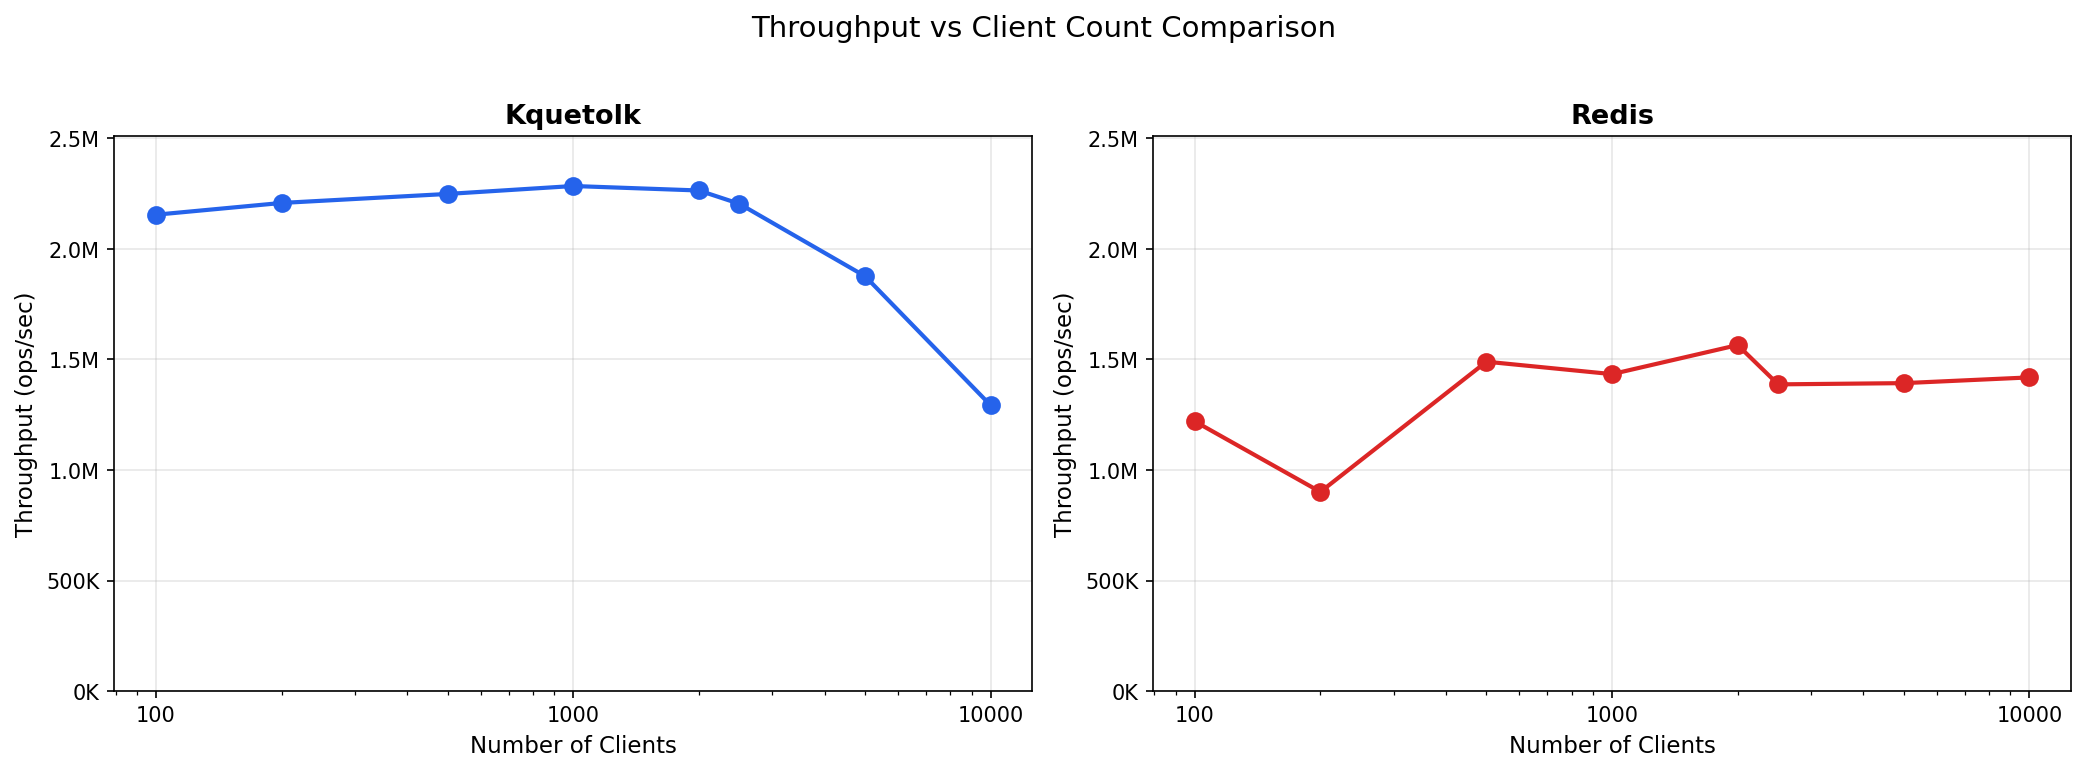
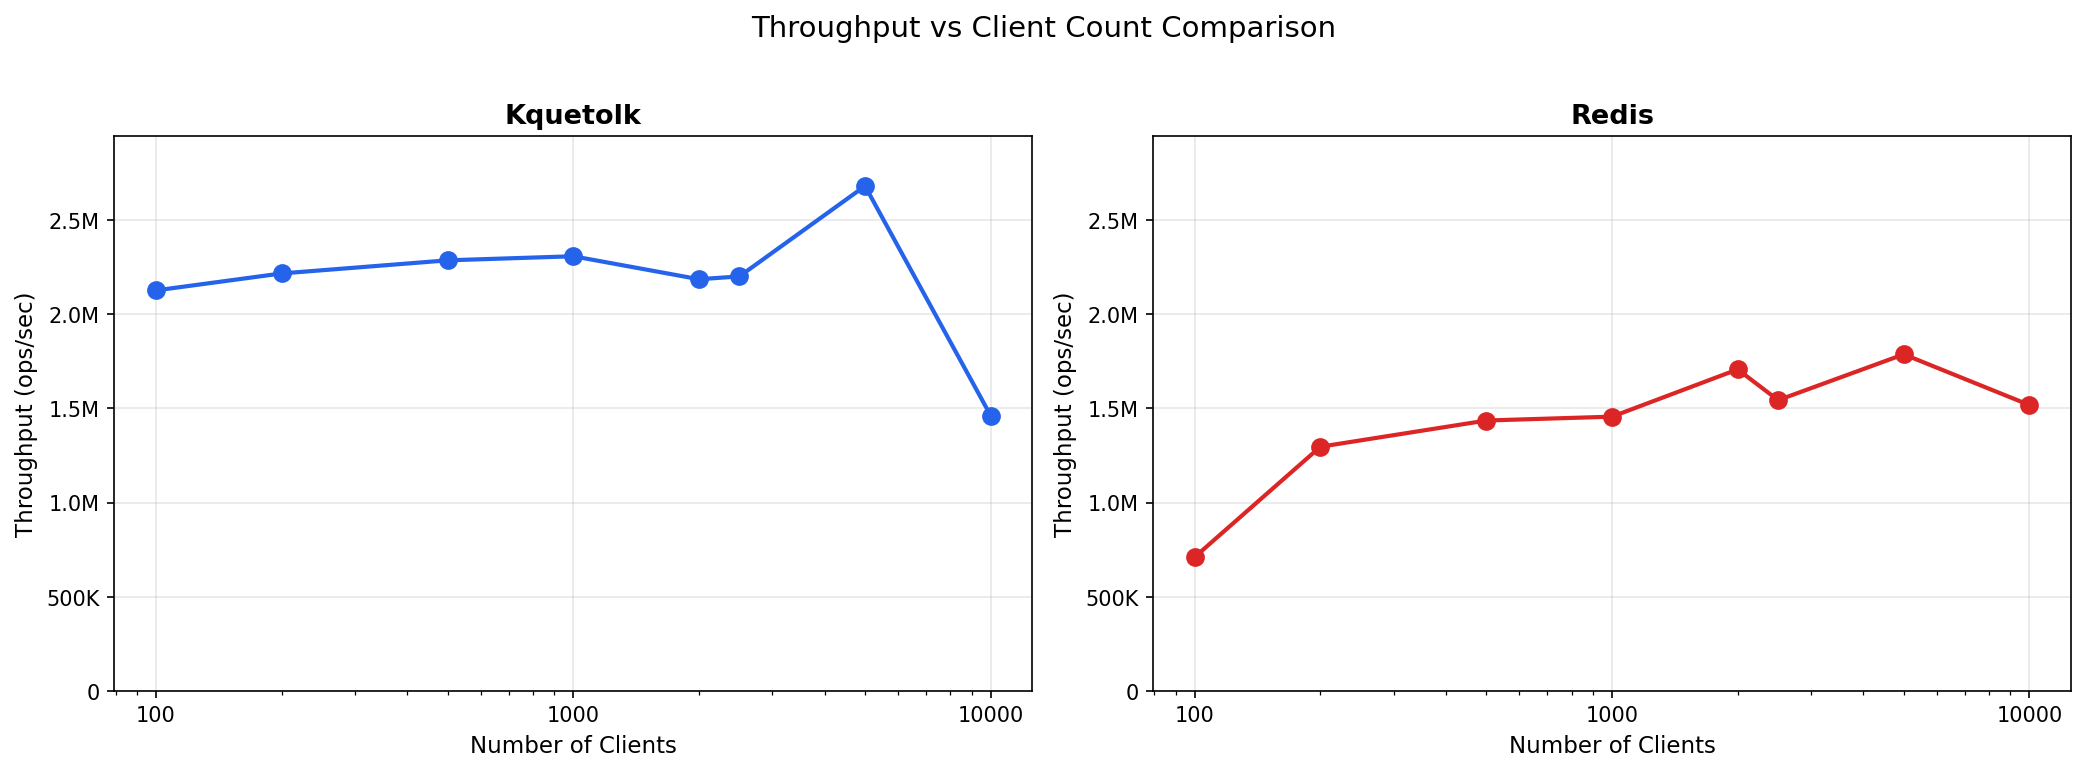
upd: updated benchmarks

diff --git a/benchmark/plot_benchmark.py b/benchmark/plot_benchmark.py
@@ -1,11 +1,16 @@
 #!/usr/bin/env python3
 """
-Plot benchmark results: Throughput vs Client Count
+Plot benchmark results with comprehensive visualizations.
 
 Usage:
     python3 plot_benchmark.py kquetolk_results.csv [redis_results.csv]
 
-This generates a graph similar to typical Redis benchmark comparisons.
+Generates:
+    1. Throughput vs Clients (side-by-side comparison)
+    2. Throughput overlay (both on same graph)
+    3. P99 Latency vs Clients (critical for SLA evaluation)
+    4. Latency percentile breakdown (p50 vs p99 vs p99.9)
+    5. Throughput vs Latency tradeoff curve
 """
 
 import sys
@@ -15,111 +20,245 @@ import matplotlib.ticker as ticker
 
 
 def read_csv(filename):
-    """Read benchmark CSV and return data."""
-    clients = []
-    ops_sec = []
+    """Read benchmark CSV and return data dict."""
+    data = {
+        'clients': [],
+        'ops_sec': [],
+        'avg_latency': [],
+        'p50_latency': [],
+        'p99_latency': [],
+        'p999_latency': []
+    }
 
     with open(filename, 'r') as f:
         reader = csv.DictReader(f)
         for row in reader:
-            clients.append(int(row['client_count']))
-            ops_sec.append(float(row['ops_sec']))
+            data['clients'].append(int(row['client_count']))
+            data['ops_sec'].append(float(row['ops_sec']))
+            data['avg_latency'].append(float(row.get('avg_latency_ms', 0)))
+            # Handle both old format (only p99) and new format (p50, p99, p99.9)
+            data['p50_latency'].append(float(row.get('p50_latency_ms', row.get('avg_latency_ms', 0))))
+            data['p99_latency'].append(float(row.get('p99_latency_ms', 0)))
+            data['p999_latency'].append(float(row.get('p999_latency_ms', row.get('p99_latency_ms', 0))))
 
-    return clients, ops_sec
-
-
-def plot_single(kquetolk_file, output_file='throughput_graph.png'):
-    """Plot single server results."""
-    clients, ops = read_csv(kquetolk_file)
-
-    fig, ax = plt.subplots(figsize=(10, 6))
-
-    ax.plot(clients, ops, 'o-', linewidth=2, markersize=8,
-            color='#2563eb', label='Kquetolk')
-
-    ax.set_xlabel('Number of Clients', fontsize=12)
-    ax.set_ylabel('Throughput (ops/sec)', fontsize=12)
-    ax.set_title('Kquetolk: Throughput vs Client Count', fontsize=14)
-
-    ax.set_xscale('log')
-    ax.xaxis.set_major_formatter(ticker.ScalarFormatter())
-    ax.yaxis.set_major_formatter(ticker.FuncFormatter(lambda x, p: f'{x/1e6:.1f}M' if x >= 1e6 else f'{x/1e3:.0f}K'))
-
-    ax.grid(True, alpha=0.3)
-    ax.legend(loc='best')
-
-    plt.tight_layout()
-    plt.savefig(output_file, dpi=150)
-    print(f"Graph saved to {output_file}")
-    plt.show()
+    return data
 
 
-def plot_comparison(kquetolk_file, redis_file, output_file='throughput_comparison.png'):
-    """Plot comparison between Kquetolk and Redis."""
-    k_clients, k_ops = read_csv(kquetolk_file)
-    r_clients, r_ops = read_csv(redis_file)
+def format_ops(x, p):
+    """Format ops/sec for axis labels."""
+    if x >= 1e6:
+        return f'{x/1e6:.1f}M'
+    elif x >= 1e3:
+        return f'{x/1e3:.0f}K'
+    return f'{x:.0f}'
 
+
+def format_latency(x, p):
+    """Format latency for axis labels."""
+    if x >= 1000:
+        return f'{x/1000:.1f}s'
+    return f'{x:.0f}ms'
+
+
+def plot_throughput_comparison(k_data, r_data, output_file='throughput_comparison.png'):
+    """Plot side-by-side throughput comparison."""
     fig, (ax1, ax2) = plt.subplots(1, 2, figsize=(14, 5))
 
-    # Left plot: Kquetolk
-    ax1.plot(k_clients, k_ops, 'o-', linewidth=2, markersize=8, color='#2563eb')
+    # Kquetolk
+    ax1.plot(k_data['clients'], k_data['ops_sec'], 'o-', linewidth=2, markersize=8, color='#2563eb')
     ax1.set_xlabel('Number of Clients', fontsize=11)
     ax1.set_ylabel('Throughput (ops/sec)', fontsize=11)
     ax1.set_title('Kquetolk', fontsize=13, fontweight='bold')
     ax1.set_xscale('log')
     ax1.xaxis.set_major_formatter(ticker.ScalarFormatter())
-    ax1.yaxis.set_major_formatter(ticker.FuncFormatter(lambda x, p: f'{x/1e6:.1f}M' if x >= 1e6 else f'{x/1e3:.0f}K'))
+    ax1.yaxis.set_major_formatter(ticker.FuncFormatter(format_ops))
     ax1.grid(True, alpha=0.3)
 
-    # Right plot: Redis
-    ax2.plot(r_clients, r_ops, 'o-', linewidth=2, markersize=8, color='#dc2626')
+    # Redis
+    ax2.plot(r_data['clients'], r_data['ops_sec'], 'o-', linewidth=2, markersize=8, color='#dc2626')
     ax2.set_xlabel('Number of Clients', fontsize=11)
     ax2.set_ylabel('Throughput (ops/sec)', fontsize=11)
     ax2.set_title('Redis', fontsize=13, fontweight='bold')
     ax2.set_xscale('log')
     ax2.xaxis.set_major_formatter(ticker.ScalarFormatter())
-    ax2.yaxis.set_major_formatter(ticker.FuncFormatter(lambda x, p: f'{x/1e6:.1f}M' if x >= 1e6 else f'{x/1e3:.0f}K'))
+    ax2.yaxis.set_major_formatter(ticker.FuncFormatter(format_ops))
     ax2.grid(True, alpha=0.3)
 
-    # Match y-axis scales for fair comparison
-    max_ops = max(max(k_ops), max(r_ops)) * 1.1
+    # Match y-axis scales
+    max_ops = max(max(k_data['ops_sec']), max(r_data['ops_sec'])) * 1.1
     ax1.set_ylim(0, max_ops)
     ax2.set_ylim(0, max_ops)
 
     plt.suptitle('Throughput vs Client Count Comparison', fontsize=14, y=1.02)
     plt.tight_layout()
     plt.savefig(output_file, dpi=150, bbox_inches='tight')
-    print(f"Comparison graph saved to {output_file}")
-    plt.show()
+    print(f"Saved: {output_file}")
+    plt.close()
 
 
-def plot_overlay(kquetolk_file, redis_file, output_file='throughput_overlay.png'):
-    """Plot both servers on the same graph."""
-    k_clients, k_ops = read_csv(kquetolk_file)
-    r_clients, r_ops = read_csv(redis_file)
-
+def plot_throughput_overlay(k_data, r_data, output_file='throughput_overlay.png'):
+    """Plot both servers on the same throughput graph."""
     fig, ax = plt.subplots(figsize=(10, 6))
 
-    ax.plot(k_clients, k_ops, 'o-', linewidth=2, markersize=8,
+    ax.plot(k_data['clients'], k_data['ops_sec'], 'o-', linewidth=2, markersize=8,
             color='#2563eb', label='Kquetolk')
-    ax.plot(r_clients, r_ops, 's-', linewidth=2, markersize=8,
+    ax.plot(r_data['clients'], r_data['ops_sec'], 's-', linewidth=2, markersize=8,
             color='#dc2626', label='Redis')
 
     ax.set_xlabel('Number of Clients', fontsize=12)
     ax.set_ylabel('Throughput (ops/sec)', fontsize=12)
     ax.set_title('Throughput vs Client Count', fontsize=14)
-
     ax.set_xscale('log')
     ax.xaxis.set_major_formatter(ticker.ScalarFormatter())
-    ax.yaxis.set_major_formatter(ticker.FuncFormatter(lambda x, p: f'{x/1e6:.1f}M' if x >= 1e6 else f'{x/1e3:.0f}K'))
-
+    ax.yaxis.set_major_formatter(ticker.FuncFormatter(format_ops))
     ax.grid(True, alpha=0.3)
     ax.legend(loc='best', fontsize=11)
 
     plt.tight_layout()
     plt.savefig(output_file, dpi=150)
-    print(f"Overlay graph saved to {output_file}")
-    plt.show()
+    print(f"Saved: {output_file}")
+    plt.close()
+
+
+def plot_latency_comparison(k_data, r_data, output_file='latency_p99_comparison.png'):
+    """Plot P99 latency comparison - critical for SLA evaluation."""
+    fig, ax = plt.subplots(figsize=(10, 6))
+
+    ax.plot(k_data['clients'], k_data['p99_latency'], 'o-', linewidth=2, markersize=8,
+            color='#2563eb', label='Kquetolk P99')
+    ax.plot(r_data['clients'], r_data['p99_latency'], 's-', linewidth=2, markersize=8,
+            color='#dc2626', label='Redis P99')
+
+    ax.set_xlabel('Number of Clients', fontsize=12)
+    ax.set_ylabel('P99 Latency (ms)', fontsize=12)
+    ax.set_title('P99 Latency vs Client Count', fontsize=14)
+    ax.set_xscale('log')
+    ax.xaxis.set_major_formatter(ticker.ScalarFormatter())
+    ax.grid(True, alpha=0.3)
+    ax.legend(loc='best', fontsize=11)
+
+    # Add SLA reference line at 10ms (common Redis SLA target)
+    ax.axhline(y=10, color='green', linestyle='--', alpha=0.5, label='10ms SLA target')
+
+    plt.tight_layout()
+    plt.savefig(output_file, dpi=150)
+    print(f"Saved: {output_file}")
+    plt.close()
+
+
+def plot_latency_percentiles(data, name, color, output_file='latency_percentiles.png'):
+    """Plot latency percentile breakdown for a single server."""
+    fig, ax = plt.subplots(figsize=(10, 6))
+
+    ax.plot(data['clients'], data['p50_latency'], 'o-', linewidth=2, markersize=6,
+            color=color, alpha=0.5, label='P50 (median)')
+    ax.plot(data['clients'], data['p99_latency'], 's-', linewidth=2, markersize=6,
+            color=color, alpha=0.75, label='P99')
+    ax.plot(data['clients'], data['p999_latency'], '^-', linewidth=2, markersize=6,
+            color=color, label='P99.9 (tail)')
+
+    ax.set_xlabel('Number of Clients', fontsize=12)
+    ax.set_ylabel('Latency (ms)', fontsize=12)
+    ax.set_title(f'{name}: Latency Percentiles vs Client Count', fontsize=14)
+    ax.set_xscale('log')
+    ax.xaxis.set_major_formatter(ticker.ScalarFormatter())
+    ax.grid(True, alpha=0.3)
+    ax.legend(loc='upper left', fontsize=11)
+
+    plt.tight_layout()
+    plt.savefig(output_file, dpi=150)
+    print(f"Saved: {output_file}")
+    plt.close()
+
+
+def plot_throughput_latency_tradeoff(k_data, r_data, output_file='throughput_latency_tradeoff.png'):
+    """Plot throughput vs latency - the classic tradeoff curve.
+
+    This is one of the most important visualizations:
+    - X-axis: Throughput (what you get)
+    - Y-axis: P99 Latency (what you pay)
+    - Lower and to the right is better
+    """
+    fig, ax = plt.subplots(figsize=(10, 6))
+
+    # Plot with client count as annotation
+    ax.plot(k_data['ops_sec'], k_data['p99_latency'], 'o-', linewidth=2, markersize=10,
+            color='#2563eb', label='Kquetolk')
+    ax.plot(r_data['ops_sec'], r_data['p99_latency'], 's-', linewidth=2, markersize=10,
+            color='#dc2626', label='Redis')
+
+    # Annotate key points with client counts
+    for i, clients in enumerate(k_data['clients']):
+        if clients in [100, 1000, 10000]:
+            ax.annotate(f'{clients}c', (k_data['ops_sec'][i], k_data['p99_latency'][i]),
+                       textcoords="offset points", xytext=(5, 5), fontsize=8, color='#2563eb')
+    for i, clients in enumerate(r_data['clients']):
+        if clients in [100, 1000, 10000]:
+            ax.annotate(f'{clients}c', (r_data['ops_sec'][i], r_data['p99_latency'][i]),
+                       textcoords="offset points", xytext=(5, 5), fontsize=8, color='#dc2626')
+
+    ax.set_xlabel('Throughput (ops/sec)', fontsize=12)
+    ax.set_ylabel('P99 Latency (ms)', fontsize=12)
+    ax.set_title('Throughput vs Latency Tradeoff\n(lower-right is better)', fontsize=14)
+    ax.xaxis.set_major_formatter(ticker.FuncFormatter(format_ops))
+    ax.grid(True, alpha=0.3)
+    ax.legend(loc='upper left', fontsize=11)
+
+    # Add quadrant annotations
+    ax.text(0.95, 0.05, 'IDEAL\n(high throughput,\nlow latency)',
+            transform=ax.transAxes, fontsize=9, alpha=0.5, ha='right', va='bottom')
+
+    plt.tight_layout()
+    plt.savefig(output_file, dpi=150)
+    print(f"Saved: {output_file}")
+    plt.close()
+
+
+def plot_single(kquetolk_file, suffix=''):
+    """Plot single server results."""
+    k_data = read_csv(kquetolk_file)
+
+    # Throughput graph
+    fig, ax = plt.subplots(figsize=(10, 6))
+    ax.plot(k_data['clients'], k_data['ops_sec'], 'o-', linewidth=2, markersize=8, color='#2563eb')
+    ax.set_xlabel('Number of Clients', fontsize=12)
+    ax.set_ylabel('Throughput (ops/sec)', fontsize=12)
+    ax.set_title('Kquetolk: Throughput vs Client Count', fontsize=14)
+    ax.set_xscale('log')
+    ax.xaxis.set_major_formatter(ticker.ScalarFormatter())
+    ax.yaxis.set_major_formatter(ticker.FuncFormatter(format_ops))
+    ax.grid(True, alpha=0.3)
+    plt.tight_layout()
+    plt.savefig(f'throughput_graph{suffix}.png', dpi=150)
+    print(f"Saved: throughput_graph{suffix}.png")
+    plt.close()
+
+    # Latency percentiles
+    plot_latency_percentiles(k_data, 'Kquetolk', '#2563eb', f'latency_percentiles{suffix}.png')
+
+
+def plot_all(kquetolk_file, redis_file, suffix=''):
+    """Generate all comparison plots."""
+    k_data = read_csv(kquetolk_file)
+    r_data = read_csv(redis_file)
+
+    # 1. Throughput comparison (side-by-side)
+    plot_throughput_comparison(k_data, r_data, f'throughput_comparison{suffix}.png')
+
+    # 2. Throughput overlay
+    plot_throughput_overlay(k_data, r_data, f'throughput_overlay{suffix}.png')
+
+    # 3. P99 Latency comparison
+    plot_latency_comparison(k_data, r_data, f'latency_p99_comparison{suffix}.png')
+
+    # 4. Latency percentiles for each
+    plot_latency_percentiles(k_data, 'Kquetolk', '#2563eb', f'latency_percentiles_kquetolk{suffix}.png')
+    plot_latency_percentiles(r_data, 'Redis', '#dc2626', f'latency_percentiles_redis{suffix}.png')
+
+    # 5. Throughput vs Latency tradeoff
+    plot_throughput_latency_tradeoff(k_data, r_data, f'throughput_latency_tradeoff{suffix}.png')
+
+    print(f"\nGenerated 6 graphs with suffix '{suffix}'")
 
 
 if __name__ == '__main__':
@@ -127,10 +266,14 @@ if __name__ == '__main__':
         print("Usage:")
         print("  python3 plot_benchmark.py kquetolk_results.csv")
         print("  python3 plot_benchmark.py kquetolk_results.csv redis_results.csv")
+        print("  python3 plot_benchmark.py kquetolk_results.csv redis_results.csv _gnet")
         sys.exit(1)
 
+    suffix = ''
+    if len(sys.argv) >= 4:
+        suffix = sys.argv[3]
+
     if len(sys.argv) == 2:
-        plot_single(sys.argv[1])
+        plot_single(sys.argv[1], suffix)
     else:
-        plot_comparison(sys.argv[1], sys.argv[2])
-        plot_overlay(sys.argv[1], sys.argv[2])
+        plot_all(sys.argv[1], sys.argv[2], suffix)

diff --git a/README.md b/README.md
@@ -69,28 +69,38 @@ Benchmarked against `redis:latest` Docker image under identical conditions.
 - gnet's event-loop architecture (epoll/kqueue) efficiently handles high connection counts with minimal overhead
 
 
-### Throughput Comparison (Gnet implementation)
+### Benchmark Visualizations (Gnet implementation)
 
 ![Throughput Comparison](benchmark/throughput_comparison_gnet.png)
 
 ![Throughput Overlay](benchmark/throughput_overlay_gnet.png)
 
-### Throughput Comparison (Old net package, per conn per goroutine model)
+![P99 Latency Comparison](benchmark/latency_p99_comparison_gnet.png)
+
+![Throughput vs Latency Tradeoff](benchmark/throughput_latency_tradeoff_gnet.png)
+
+![Kquetolk Latency Percentiles](benchmark/latency_percentiles_kquetolk_gnet.png)
+
+![Redis Latency Percentiles](benchmark/latency_percentiles_redis_gnet.png)
+
+### Benchmark Visualizations (Old net package, per conn per goroutine model)
 
 ![Throughput Comparison](benchmark/throughput_comparison.png)
 
 ![Throughput Overlay](benchmark/throughput_overlay.png)
 
-### Generate Throughput Graph
+### Generate Benchmark Graphs
 
 ```bash
-# Run benchmarks at various client counts
-./benchmark/run_benchmark.sh 6379 kquetolk_results.csv
+# Run benchmarks (uses memtier with 3 iterations for reliability)
+./benchmark/run_benchmark.sh 6379 benchmark/kquetolk_results.csv
 
 # Optional: benchmark Redis for comparison
 docker run -d -p 6380:6379 redis:latest
-./benchmark/run_benchmark.sh 6380 redis_results.csv
+./benchmark/run_benchmark.sh 6380 benchmark/redis_results.csv
 
-# Plot results (requires: pip3 install matplotlib)
-python3 benchmark/plot_benchmark.py kquetolk_results.csv [redis_results.csv]
+# Generate graphs (requires: pip3 install matplotlib)
+python3 benchmark/plot_benchmark.py benchmark/kquetolk_results.csv benchmark/redis_results.csv
 ```
+
+Generates: throughput comparison, P99 latency, latency percentiles (p50/p99/p99.9), and throughput-latency tradeoff curves.
